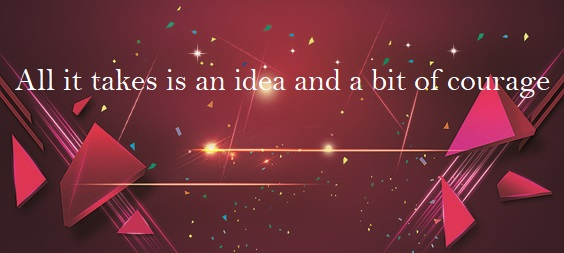
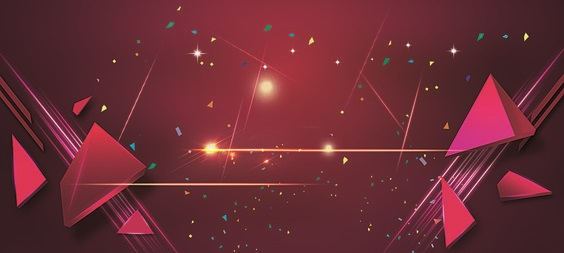
Updated CSS for mobile

Changed region(s): [[0.0301, 0.2767, 0.9947, 0.3874]]

diff --git a/src/components/Contact.js b/src/components/Contact.js
@@ -5,20 +5,13 @@ class Contact extends Component {
         return (
             <div id="contact-section" className="contact-section">
                 <div className="contact-box">
-                    <div className="contact-heading"><span>Get In Touch</span></div>
-                    <div className="contact-form">
+                    <div className="contact-heading"><span>Reach Me At</span></div>
                         <div className="contact-details">
-                            <input type="text" placeholder="Your Name"></input>
-                            <input type="text" placeholder="Your Email"></input>
-                            <input type="text" placeholder="Subject"></input>
+                            <div>E-Mail: <a href="mailto:JustAnotherAnil@gmail.com">JustAnotherAnil@gmail.com</a></div>
+                            <div>Mobile: +91-84597-32047</div>
+                            <div>LinkedIn: <a href="https://www.linkedin.com/in/anil-yadav-53b67333/" target="_blank">https://www.linkedin.com/in/anil-yadav-53b67333/</a></div>
+                            <div>GitHub: <a href="https://github.com/anilyadav0489" target="_blank">https://github.com/anilyadav0489</a></div>
                         </div>
-                        <div className="contact-details-message">
-                            <textarea placeholder="Message"></textarea>
-                        </div>
-                        <div className="contact-footer">
-                            <input type="button" className="send-mail" value="Send email"></input>
-                        </div>
-                    </div>
                 </div>
             </div>
         );

diff --git a/src/components/Work.js b/src/components/Work.js
@@ -10,19 +10,19 @@ class Work extends Component {
         return (
             <div id="work-section" className="work-section">
             <div className="projects-box">
-                    <div className="projects-heading">Featured Projects</div>
+                    <div className="projects-heading"><span>Featured Projects</span></div>
                     <div className="projects">
-                        <div className="project">Game: Grab The Max
+                        <div className="project"><span>Game: Grab The Max</span>
                             <a href="https://grab-the-max.herokuapp.com/" target="_blank">
                                 <img src={islandSnap} alt="" className="project-image"/>
                             </a>
                         </div>
-                        <div className="project">Roster: The Excel Way
+                        <div className="project"><span>Web: The Excel Way</span>
                             <a href="https://sheltered-basin-39570.herokuapp.com/" target="_blank">
                                 <img src={rosterSnap} alt="" className="project-image"/>
                             </a>
                         </div>
-                        <div className="project">My Art Collection
+                        <div className="project"><span>My Art Collection</span>
                             <img src={artGallery} alt="" onClick={this.showGallery} className="project-image"/>
                         </div>
                     </div> 

diff --git a/src/custom-styles/_contact.scss b/src/custom-styles/_contact.scss
@@ -1,7 +1,6 @@
 .contact-section{
     position: relative;
     width: 100%;
-    height: 500px;
     border: 1px solid black;
     background: #ddd;
 }
@@ -10,41 +9,29 @@
     border: 1px solid blue;
     position: relative;
     margin: 3rem;
+    min-height: 17rem;
 }
 
 .contact-heading{
-    margin-top: 3.33rem;
+    margin-bottom: 2rem;
+}
+.contact-heading span{
     font-size: 2rem;
+    font-size: 3rem;
+    font-weight: 500;
+    background: linear-gradient(blue 10%, green)  0 0 no-repeat;
+    -webkit-text-fill-color: transparent;
+    -webkit-background-clip: text;
 }
-.contact-form{
-    margin: 2rem 4rem;
-    display: flex;
-    flex-direction: column;
-    justify-content: center;
-    align-items: center;
 
-}
 .contact-details{
     display: flex;
-    justify-content: space-between;
+    flex-direction: column;
+    justify-content: space-around;
     align-items: center;
     width: 100%;
 }
 
-.contact-details input{
-    width: 15rem;
-}
-.contact-details-message{
-    width: 100%;
-    margin: 1rem;
-}
-.contact-details-message textarea{
-    font-family: calibri;
-    font-size: 1rem;
-    width: 100%;
-    height: 10rem;
-    text-align: left;
-}
-
-.contact-footer{
+.contact-details div{
+    margin: 0.5rem 0;
 }

diff --git a/src/components/Story.js b/src/components/Story.js
@@ -1,5 +1,5 @@
 import React, {Component} from 'react';
-import myPic from '../resources/ANIL.JPG'
+import myPic from '../resources/Anil.JPG'
 
 class Story extends Component {
     render() {
@@ -7,8 +7,8 @@ class Story extends Component {
             <div id="story-section" className="story-section">
                 <div className="text-section">
                     <span className="text-section-title about-myself">
-                        <span>A</span><span>b</span><span>o</span><span>u</span><span>t</span><span className="space"> </span>
-                        <span>M</span><span>y</span><span>s</span><span>e</span><span>l</span><span>f</span>
+                        <span>A</span><span>B</span><span>O</span><span>U</span><span>T</span><span className="space"> </span>
+                        <span>M</span><span>E</span>
                     </span>
                     <span className="story-content">A software developer by profession, a kind human by nature,
                     and an artist by choice, this is what I feel I am. 

diff --git a/src/custom-styles/_work.scss b/src/custom-styles/_work.scss
@@ -10,13 +10,21 @@
     position: relative;
     margin: 3rem;
     background: #fff;
+    min-height: 25rem;
 }
 .projects-heading{
-    font-size: 2rem;
+    margin-top:1rem;
+}
+.projects-heading span{
+    font-size: 3rem;
+    font-weight: 500;
+    background: linear-gradient(blue, green)  0 0 no-repeat;
+    -webkit-text-fill-color: transparent;
+    -webkit-background-clip: text;
 }
 .projects{
     display: flex;
-    margin: 2rem;
+    margin: 3rem 2rem 2rem 2rem;
     justify-content: center;
     align-items: center;
     
@@ -36,4 +44,21 @@
     width: 25rem;
     max-height: 13rem;
 
+}
+
+@media screen and (max-width: 51rem){
+    .projects{
+        flex-direction: column;
+        margin: 3rem 2rem 2rem 2rem;
+        justify-content: space-around;
+        align-items: center;
+        
+    }
+    .projects span{
+        display: block;
+    }
+    .project {
+        width: 90%;
+        margin: 1rem;
+    }
 }

diff --git a/src/custom-styles/_story.scss b/src/custom-styles/_story.scss
@@ -23,7 +23,7 @@
     margin-right: 0.1rem;
 }
 .my-pic{
-    height: 36rem;
+    max-height: 36rem;
 }
 
 .text-section-title{
@@ -56,8 +56,7 @@
     font-size: 3rem;
     color: white;
     width: 3rem;
-    height: 4rem;
-    vertical-align: top;
+    text-align: center;
     animation: moveNRotate 2s linear forwards;
     animation-iteration-count: infinite; 
 }
@@ -67,9 +66,24 @@
         transform: rotateY(0deg);
     }
     50% {
-        transform: rotateY(40deg);
+        transform: rotateY(20deg);
     }
     100% {
         transform: rotateY(0deg);
+    }
+}
+@media screen and (max-width: 51rem){
+    .story-section{
+        flex-direction: column;
+        margin: 0;
+        width: 100%;
+        justify-content: space-around;
+        align-items: center;
+        
+    }
+    .story-image-container{
+        display: block;
+        max-width: 90%;
+        margin-top: 0.5rem;
     }
 }

diff --git a/src/custom-styles/_header.scss b/src/custom-styles/_header.scss
@@ -29,6 +29,12 @@
 }
 .header-right span a{
     color: #ddd;
+    display: inline-block;
+    background-image: linear-gradient(dodgerblue, dodgerblue);
+    background-size: 0 1px, auto;
+    background-repeat: no-repeat;
+    background-position: center bottom;
+    transition: all .2s ease-out;
     padding: 0 15px;
     cursor: pointer;
     text-decoration: none;
@@ -37,5 +43,24 @@
     margin-top: -40px;
 }
 .header-right span a:hover{
+    background-size: calc(100% - 2em) 1px, auto;
     color: white;
+    
+}
+
+@media screen and (max-width: 51rem){
+    .header-right span a{
+        padding: 0 0.5rem;
+        cursor: pointer;
+        text-decoration: none;
+        position: relative;
+        padding-top: 40px; 
+        margin-top: -40px;
+    }
+    .header-left{
+        width: 20%;
+    }
+    .header-right{
+        width: 80%;
+    }
 }

diff --git a/src/components/Footer.js b/src/components/Footer.js
@@ -7,8 +7,8 @@ class Footer extends Component {
                 <div className="content-box">
                     <div className="name">Anil Yadav</div>
                     <div className="contact-number">+91-84597-32047</div>
-                    <div className="email">JustAnotherAnil@gmail.com</div>
-                    <div className="linkedIn">https://www.linkedin.com/in/anil-yadav-53b67333/</div>
+                    <div className="email"><a href="mailto:JustAnotherAnil@gmail.com">JustAnotherAnil@gmail.com</a></div>
+                    <div className="linkedIn"><a href="https://www.linkedin.com/in/anil-yadav-53b67333/" target="_blank">Anil Yadav @ LinkedIn</a></div>
                 </div>
             </div>
         );

diff --git a/src/components/Skills.js b/src/components/Skills.js
@@ -5,7 +5,7 @@ class Skills extends Component {
         return (
             <div id="skills-section" className="skills-section">
                 <div className="skills-box">
-                    <div className="skills-heading">Skills</div>
+                    <div className="skills-heading"><span>Skills</span></div>
                     <div className="skills">
                         <div className="skill">React JS, Redux</div>
                         <div className="skill-bar-1">80%</div>

diff --git a/src/components/ImageSection.js b/src/components/ImageSection.js
@@ -11,12 +11,6 @@ class ImageSection extends Component {
                     <img src={backgroundImage2} alt="" className="fixed-image"/>
                     <img src={backgroundImage1} alt="" className="changing-image"/>
                 </div>
-                <div className="my-name">
-                    <span>A</span>
-                    <span>N</span>
-                    <span>I</span>
-                    <span>L</span>
-                </div>
             </div>
         );
     }

diff --git a/src/custom-styles/_skills.scss b/src/custom-styles/_skills.scss
@@ -10,8 +10,16 @@
     position: relative;
     margin: 3rem;
 }
-.skills-heading{
+.skills-heading {
+    margin-top: 1rem;
+} 
+.skills-heading span{
     font-size: 2rem;
+    font-size: 3rem;
+    font-weight: 500;
+    background: linear-gradient(black 30%, white)  0 0 no-repeat;
+    -webkit-text-fill-color: transparent;
+    -webkit-background-clip: text;
 }
 .skills{
     display: flex;

diff --git a/src/custom-styles/_imageSection.scss b/src/custom-styles/_imageSection.scss
@@ -44,3 +44,18 @@
     }
 }
 
+
+@media screen and (max-width: 51rem){
+    .image-section{
+        position: relative;
+        margin-top: 3rem;
+        width: 100%;
+        max-height: 17rem;
+        border: 1px solid black;
+    }
+    .image-container img{
+        width: 100%;
+        max-height: 17rem;
+    }
+}
+
